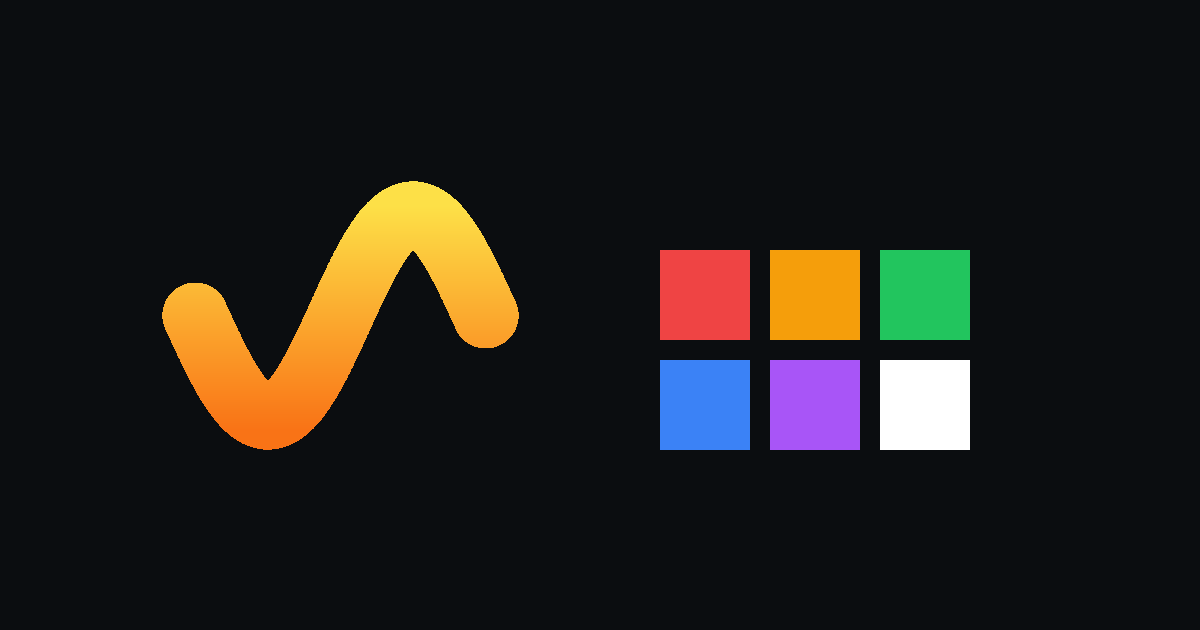
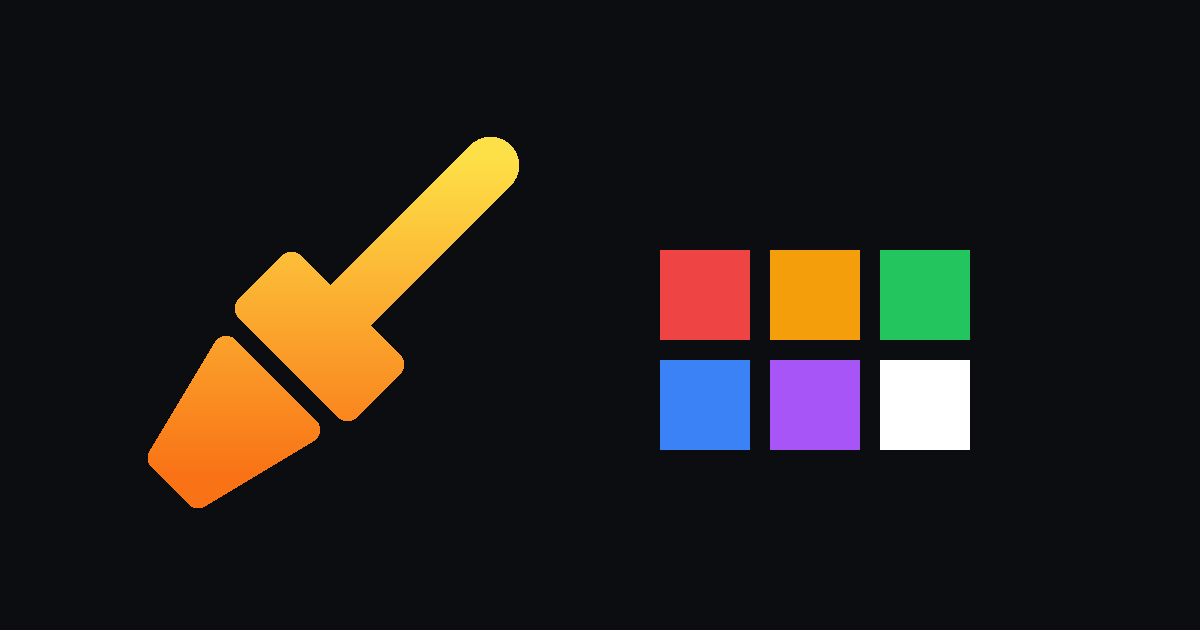
style(canvas): give the header the family's chrome, and a new app mark (#27)

Changed region(s): [[0.1233, 0.2111, 0.4317, 0.8143]]

diff --git a/src/app/DrawingTitle.tsx b/src/app/DrawingTitle.tsx
@@ -1,0 +1,94 @@
+// SPDX-License-Identifier: PolyForm-Noncommercial-1.0.0
+import { useEffect, useRef, useState } from "react";
+
+import { useT } from "./i18n/index.ts";
+
+// The open drawing's name, at the head of the canvas header.
+//
+// It reads as a heading and edits as a field — the same treatment the sibling
+// apps give the document's name (`notes`' editor title, this app's own Archive
+// heading): `text-lg font-bold` in the bright foreground, no box, no fill, no
+// focus ring of its own. The framework's `InlineEditField` is the wrong
+// component for this spot even though it is the right one inside a menu row:
+// it mounts *focused* — which raised the soft keyboard over the page every time
+// a drawing was opened — and its borderless styling is a default that a caller
+// passing `className` replaces, so the header ended up wearing the browser's
+// native input chrome and its blue focus highlight. Both are the reason this
+// field is the screen's own.
+//
+// The name is still edited in place: press the title and type over it. The
+// press selects the whole name (so typing replaces it, the way it does in
+// `notes`), Enter and a press elsewhere commit, and Escape puts the old name
+// back.
+export function DrawingTitle({
+  /** The open drawing's name, as stored. */
+  value,
+  onCommit,
+}: {
+  value: string;
+  /** Fired with the trimmed name when it actually changed. */
+  onCommit: (name: string) => void;
+}) {
+  const t = useT();
+  const [draft, setDraft] = useState(value);
+
+  // Follow the document: opening another drawing — or renaming this one from
+  // the side menu — replaces what the field shows. Keyed on the name itself, so
+  // a keystroke in flight is never overwritten by the store echoing the name
+  // that is already there.
+  useEffect(() => setDraft(value), [value]);
+
+  // A press into the field selects the whole name so it can be typed over.
+  // The browser collapses that selection to a caret on the click's *mouseup*,
+  // so the one mouseup that gained focus is suppressed; later presses still
+  // place the caret where you pressed.
+  const focusingPress = useRef(false);
+
+  function commit(next: string) {
+    const trimmed = next.trim();
+    // An empty title is not a rename — a drawing always has a name, and the
+    // placeholder stands in for one that has never been typed. Put the stored
+    // name back instead.
+    if (!trimmed) {
+      setDraft(value);
+      return;
+    }
+    if (trimmed !== value) onCommit(trimmed);
+    setDraft(trimmed);
+  }
+
+  return (
+    <input
+      type="text"
+      value={draft}
+      placeholder={t("menu.untitled")}
+      aria-label={t("menu.drawingName")}
+      enterKeyHint="done"
+      onChange={(e) => setDraft(e.currentTarget.value)}
+      onFocus={(e) => e.currentTarget.select()}
+      onMouseDown={(e) => {
+        if (document.activeElement !== e.currentTarget)
+          focusingPress.current = true;
+      }}
+      onMouseUp={(e) => {
+        if (!focusingPress.current) return;
+        e.preventDefault();
+        focusingPress.current = false;
+      }}
+      onBlur={(e) => commit(e.currentTarget.value)}
+      onKeyDown={(e) => {
+        if (e.key === "Enter") {
+          e.preventDefault();
+          // Blur to commit, so the keyboard drops on a phone and the caret
+          // leaves the title — naming the drawing is done, the page is next.
+          e.currentTarget.blur();
+        } else if (e.key === "Escape") {
+          e.preventDefault();
+          setDraft(value);
+          e.currentTarget.blur();
+        }
+      }}
+      className="min-w-0 flex-1 appearance-none border-0 bg-transparent p-0 font-[inherit] text-lg leading-tight font-bold tracking-wide text-fg-bright outline-none placeholder:font-bold placeholder:text-muted/60"
+    />
+  );
+}

diff --git a/src/app/CanvasScreen.tsx b/src/app/CanvasScreen.tsx
@@ -4,7 +4,6 @@ import { useCallback, useEffect, useRef, useState } from "react";
 import {
   ConfirmDialog,
   ImageUpIcon,
-  InlineEditField,
   StarIcon,
 } from "@niclaslindstedt/oss-framework/components";
 import {
@@ -15,6 +14,7 @@ import {
 
 import { defaultInk, resolvePageColor } from "./canvas.ts";
 import { DownloadMenu } from "./DownloadMenu.tsx";
+import { DrawingTitle } from "./DrawingTitle.tsx";
 import type { MenuEdge } from "./gestures.ts";
 import { HeaderIconButton } from "./HeaderIconButton.tsx";
 import { LayersIcon } from "./icons.tsx";
@@ -192,19 +192,14 @@ export function CanvasScreen({
           which paints edge to edge (`viewport-fit=cover`). */}
       <header className="flex shrink-0 items-center gap-2 border-b border-line bg-surface px-3 pb-2 pt-[calc(0.5rem+env(safe-area-inset-top))]">
         {/* The name is edited in place — a drawing is named by typing over its
-            title, not through a dialog. */}
-        <div className="min-w-0 flex-1">
-          <InlineEditField
-            initial={drawing.name}
-            placeholder={t("menu.untitled")}
-            ariaLabel={t("menu.drawingName")}
-            onCommit={(next) => store.renameActive(next)}
-            onCancel={() => {}}
-            className="w-full"
-          />
-        </div>
+            title, not through a dialog. It reads as the page's heading until
+            it is pressed (see `DrawingTitle`). */}
+        <DrawingTitle
+          value={drawing.name}
+          onCommit={(next) => store.renameActive(next)}
+        />
 
-        <div className="flex items-center gap-1">
+        <div className="flex items-center gap-2">
           {/* The star — where favouriting is discovered, and what puts the
               drawing in the side menu's Favorites section. */}
           <HeaderIconButton
@@ -212,10 +207,7 @@ export function CanvasScreen({
             pressed={Boolean(drawing.favorite)}
             onClick={() => store.toggleFavorite(drawing.id)}
           >
-            <StarIcon
-              className={`h-[18px] w-[18px] ${drawing.favorite ? "text-accent" : ""}`}
-              filled={drawing.favorite}
-            />
+            <StarIcon className="h-[18px] w-[18px]" filled={drawing.favorite} />
           </HeaderIconButton>
           {/* The layers panel's other door. The swipe from the right edge is
               the phone gesture; this button is how it is *found*, and the only
@@ -225,9 +217,7 @@ export function CanvasScreen({
             pressed={layersOpen}
             onClick={() => setLayersOpen((open) => !open)}
           >
-            <LayersIcon
-              className={`h-[18px] w-[18px] ${layersOpen ? "text-accent" : ""}`}
-            />
+            <LayersIcon className="h-[18px] w-[18px]" />
           </HeaderIconButton>
           {/* No undo / redo here. They are one tap away in the sidebar's
               button island and on the keyboard, and the header is the one row

diff --git a/src/app/HeaderIconButton.tsx b/src/app/HeaderIconButton.tsx
@@ -4,7 +4,15 @@ import type { Ref, ReactNode } from "react";
 /** A square icon button in the canvas header row — the same affordance
  *  repeated across the header, so it is one component rather than a copy of the
  *  class list per button. Lives on its own because the download menu's trigger
- *  is one of them and has to look identical to the rest of the row. */
+ *  is one of them and has to look identical to the rest of the row.
+ *
+ *  It wears the family's header button: a 36px box with a border, tinted accent
+ *  while it is on. That is the shape the sibling apps' headers use and the one
+ *  this app's own toolbar already uses for a picked tool, so the header no
+ *  longer floats a row of bare glyphs over chrome that boxes everything else.
+ *  A button that reports state — the star, the layers panel, an open menu —
+ *  carries the tint, which is why the glyphs inside no longer colour
+ *  themselves. */
 export function HeaderIconButton({
   label,
   onClick,
@@ -35,8 +43,10 @@ export function HeaderIconButton({
       aria-haspopup={expanded === undefined ? undefined : "menu"}
       aria-expanded={expanded}
       title={label}
-      className={`inline-flex h-9 w-9 cursor-pointer items-center justify-center rounded hover:bg-surface-2 hover:text-fg disabled:cursor-default disabled:opacity-30 disabled:hover:bg-transparent ${
-        expanded ? "bg-surface-2 text-fg" : "text-muted"
+      className={`inline-flex h-9 w-9 shrink-0 cursor-pointer items-center justify-center rounded-md border transition-colors disabled:cursor-default disabled:opacity-30 ${
+        pressed || expanded
+          ? "border-accent bg-accent/15 text-accent"
+          : "border-line text-muted hover:bg-surface-2 hover:text-fg disabled:hover:bg-transparent"
       }`}
     >
       {children}

diff --git a/docs/features/canvas.md b/docs/features/canvas.md
@@ -121,12 +121,20 @@ them.
 
 ## The header
 
-- The drawing's name is edited in place — type over the title.
+- The drawing's name is the page's heading, edited in place: press it and type
+  over it. The press selects the whole name, `Enter` keeps what you typed, and
+  `Esc` puts the old name back. Nothing takes the keyboard until you ask for
+  it — opening a drawing leaves the title alone.
 - The star adds the drawing to Favorites (see [drawings](drawings.md)).
 - The layers button opens the stack (see [layers](layers.md)) — the same panel
   an inward swipe from the right edge of the page brings out.
 - The download button opens a menu — PNG, JPG, SVG, or copy to the clipboard
   (see [export](export.md)).
+
+The buttons up here wear the same box the toolbar's do — a bordered square that
+tints accent while it is on — so a starred drawing and an open layers panel are
+readable at a glance, and the header, the toolbar and the sibling `notes` and
+`contacts` apps all read as one set of chrome.
 
 There is no bin up here any more. Wiping the page is erasing at its largest
 scale, so it moved to where erasing lives — the eraser's own button, one press

diff --git a/.changes/unreleased/1786935600-header-chrome.md b/.changes/unreleased/1786935600-header-chrome.md
@@ -1,0 +1,7 @@
+---
+type: Changed
+title: The canvas header
+doc: canvas
+---
+
+The header's buttons now wear the same bordered box the toolbar and the sibling apps use, and the drawing's name reads as a heading that only takes the keyboard once you press it.

diff --git a/.changes/unreleased/1786935601-app-mark.md b/.changes/unreleased/1786935601-app-mark.md
@@ -1,0 +1,6 @@
+---
+type: Changed
+title: A new app mark
+---
+
+The install icon, favicon and social card now carry a solid paintbrush drawn at the weight the sibling apps' marks wear, instead of the thin swipe that floated in the middle of the tile.
